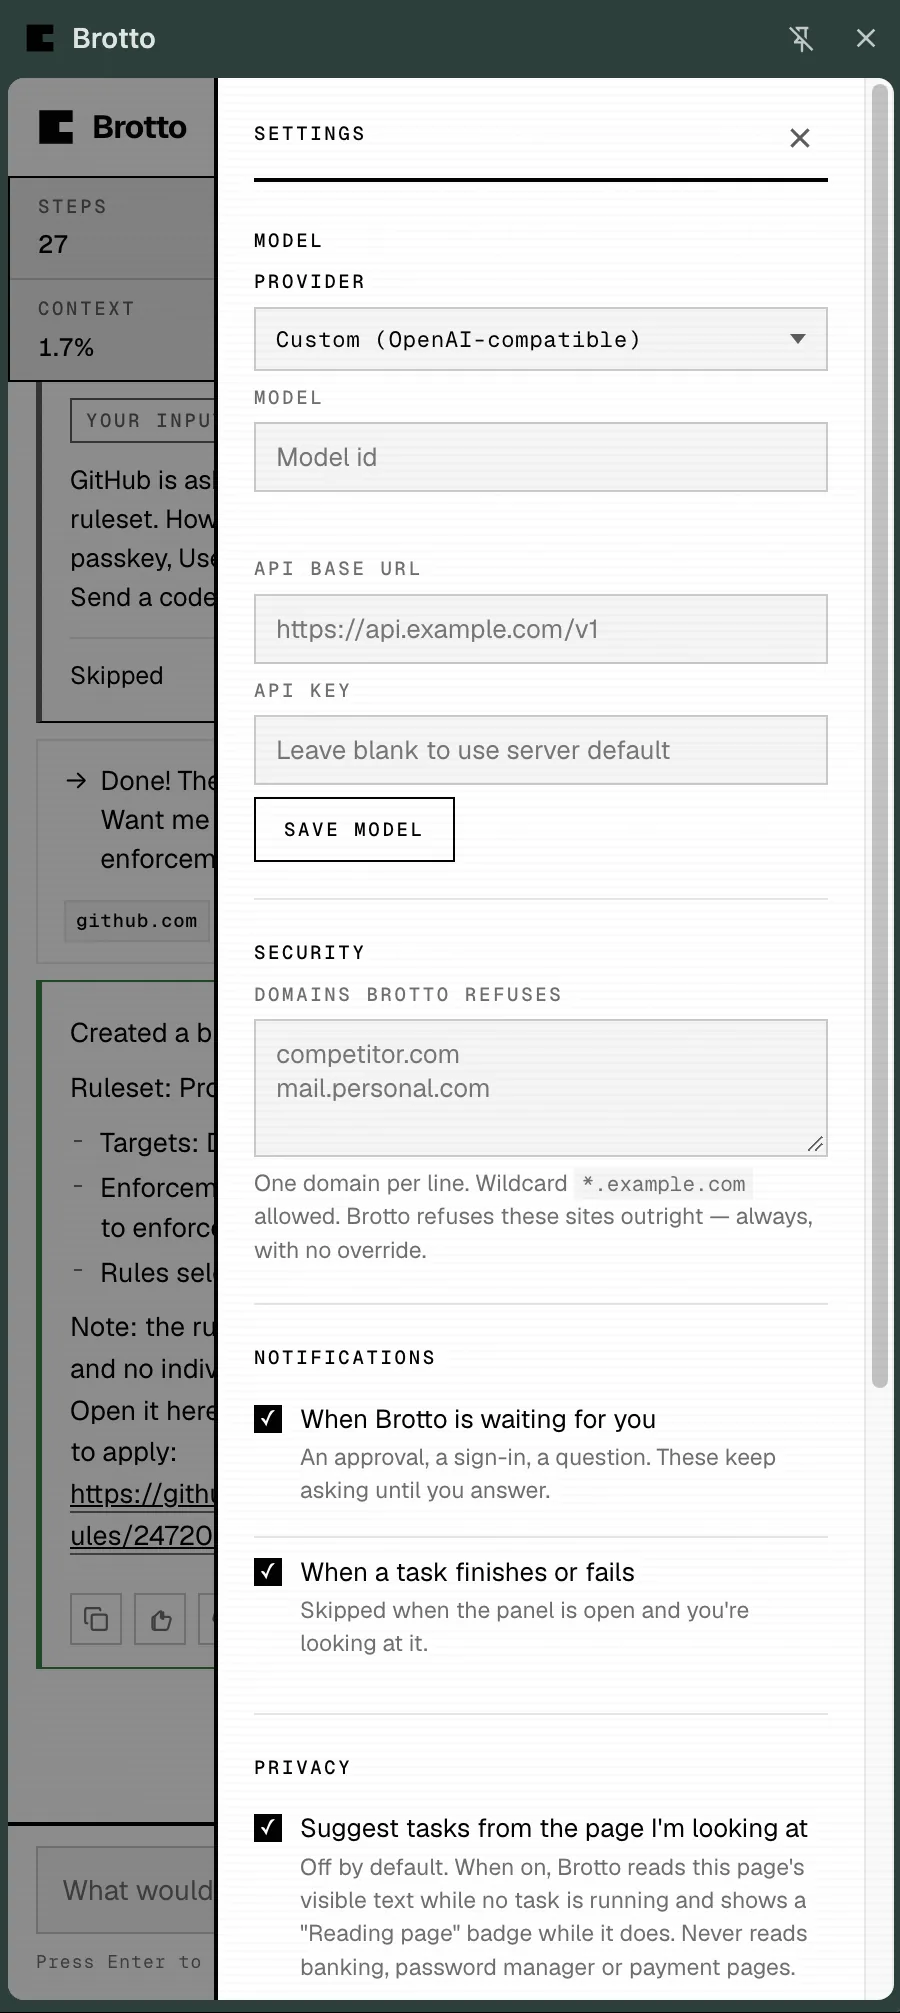
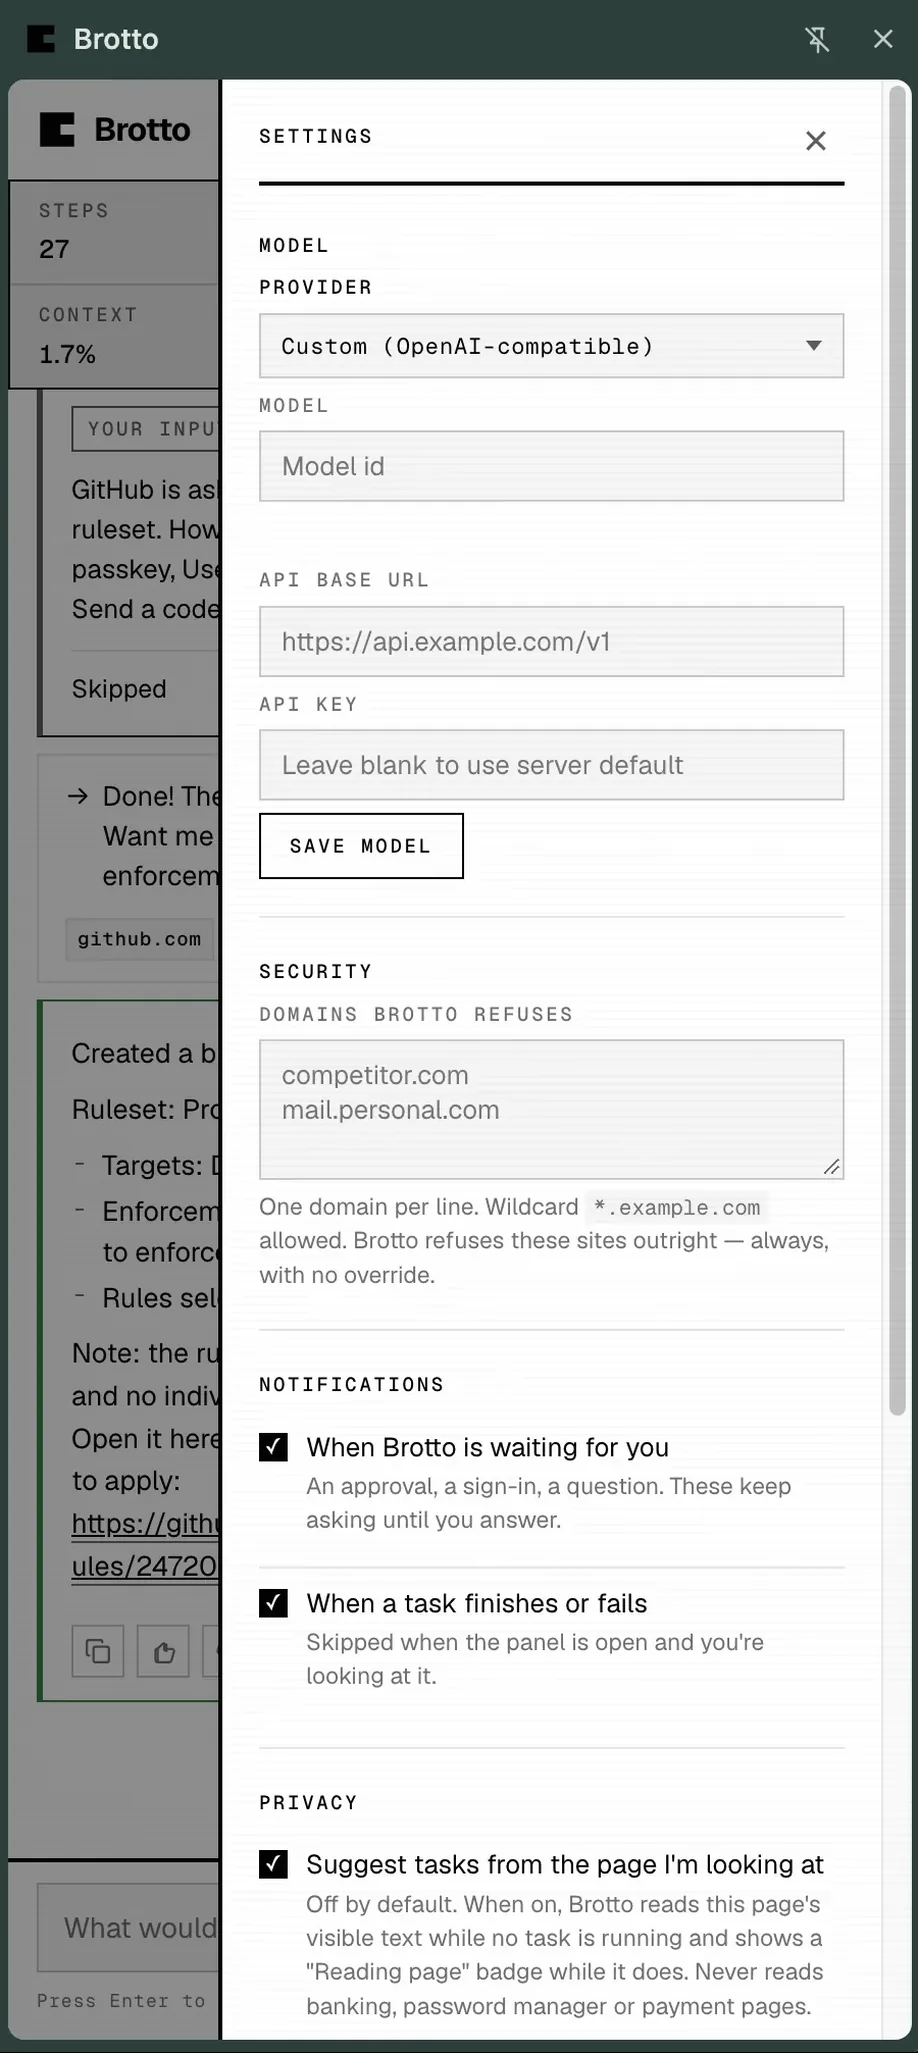
Take the bank-feed history panel out, and give the run its four moments
docs/images/panel-session-history.webp was the same capture family as the HDFC
one replaced earlier: the visible session titles are real bank activity —
HDFC UPI transactions, an amount debited per account, an employer name. It has
been in the README's first screen. Deleted rather than replaced; there is no
clean second history capture, and the audit-trail claim is already made in
prose under "Where your data goes".

The Screens grid is now two panels at one width instead of three at two widths.
The run section takes the approval shot as its second moment, so all four shots
are one continuous task rather than three plus a stray.

diff --git a/README.md b/README.md
@@ -60,24 +60,47 @@ references, the structure a screen reader already navigates by. No vision model,
 <div align="center">
 <table>
 <tr>
-<td width="33%"><img src="docs/images/panel-idle.webp" alt="The Brotto panel, idle, with suggestions"><br><sub><b>Idle.</b> The panel offers what the page in front of you could be asked to do.</sub></td>
-<td width="33%"><img src="docs/images/panel-session-history.webp" alt="The session history list"><br><sub><b>History.</b> Every run, on your own disk, yours to delete.</sub></td>
-<td width="33%"><img src="docs/images/panel-settings.webp" alt="Brotto's settings: bring your own model key, and the sites it refuses"><br><sub><b>Yours.</b> Your model key, your server, and the list of sites Brotto refuses outright.</sub></td>
+<td width="50%"><img src="docs/images/panel-idle.webp" alt="The Brotto panel, idle, with suggestions" width="100%"><br><sub><b>Idle.</b> The panel offers what the page in front of you could be asked to do.</sub></td>
+<td width="50%"><img src="docs/images/panel-settings.webp" alt="Brotto's settings: bring your own model key, and the sites it refuses" width="100%"><br><sub><b>Yours.</b> Your model key, your server, and the list of sites Brotto refuses outright.</sub></td>
 </tr>
 </table>
 </div>
 
+---
+
 ## One run, start to finish
 
-The same task, three moments: Brotto adding a branch protection ruleset to
-this repository. It reads the page, it asks when it is not sure, and it leaves
-the run on disk when it is done.
+One task, four moments: Brotto adding a branch protection ruleset to this
+repository. Every shot below is the real extension, in a real browser, on a
+public repo — nothing staged, nothing mocked.
+
+**1 · You ask for it in a sentence.**
+There is no form and no workflow to learn. The panel is a chat box, and
+whatever you can describe is the whole interface.
 
 <img src="docs/images/run-1-the-prompt.webp" alt="Brotto's panel with the task typed out: go to GitHub, find the Brotto repository, add a branch protection ruleset to main, and open a pull request for it" width="100%">
 
-<img src="docs/images/run-2-it-asks.webp" alt="Brotto stopping to clarify: it found two ways to add branch protection on the repository and is asking which one, with Skip and Say options" width="100%">
+**2 · It asks before it leaves.**
+GitHub is the first domain this run touches, so it stops and waits. A domain
+you approve is remembered for good — consent is for the site, not for the one
+verb — and a page Brotto has never seen cannot be pre-approved by anything but
+you.
 
-<img src="docs/images/run-3-done.webp" alt="Brotto reporting DONE: it created a classic branch protection ruleset on the main branch of the Brotto repository, with targets, enforcement status, required checks and force-push settings" width="100%">
+<img src="docs/images/run-2-before-it-navigates.webp" alt="Brotto's panel showing a first-navigation approval card for github.com, with ALLOW and DENY buttons" width="100%">
+
+**3 · It stops again when the page offers a choice.**
+GitHub has two ways to add branch protection, and picking wrong means clicking
+back through settings. Rather than guess, it hands you the question and waits.
+This is the same card you would get for a sign-in it cannot pass.
+
+<img src="docs/images/run-3-it-asks-when-unsure.webp" alt="Brotto's panel stopping to clarify that the repository has two ways to add branch protection, with Skip and Say options" width="100%">
+
+**4 · The run finishes, and the whole thing is on your disk.**
+The panel reports what it did and what it would do next. Nothing is sent here:
+the ruleset was written on github.com by your own session, and the transcript
+lands in `logs/sessions/` beside the rest of your files.
+
+<img src="docs/images/run-4-the-ruleset-it-wrote.webp" alt="Brotto reporting DONE: it created a classic branch protection ruleset on the main branch of the Brotto repository, with targets, enforcement status, required checks and force-push settings" width="100%">
 
 ---
 
